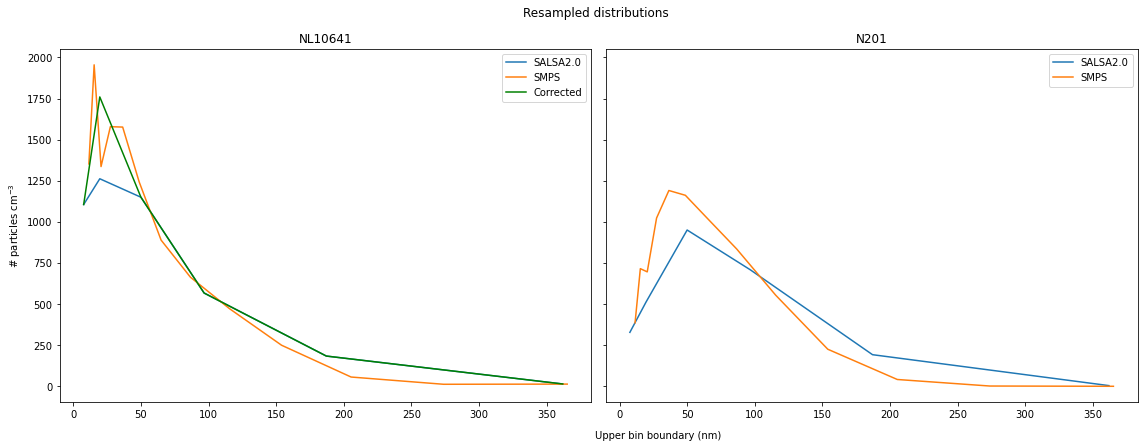
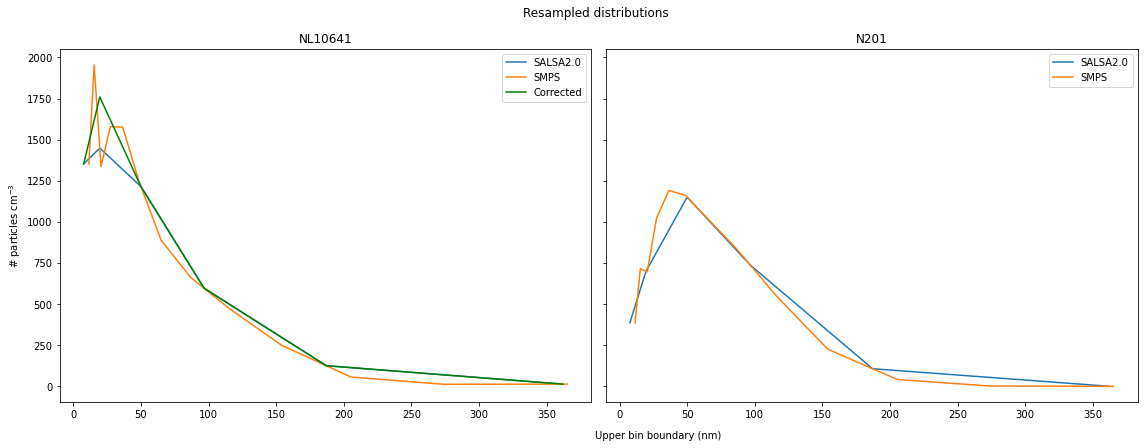
Better downsampling
Simply based on linear interpolation now, must cleaner.

diff --git a/src/measurement_data.py b/src/measurement_data.py
@@ -367,56 +367,7 @@ def show_bin_difference(smps_dataframe):
     plt.show()
     ###############################################
 
-def resample_to_salsa(series):
-    """
-    Resamples the SMPS dataseries (mean) into the bins of SALSA2.0.
-
-    Parameters
-    ----------
-    series : Pandas Series
-        Pandas Series of the mean NW-SW distribution.
-
-    Returns
-    -------
-    resampled : Pandas Series
-        Pandas Series of the resampled mean NW-SW distribution..
-
-    """
-    bin_boundaries = define_bin_boundaries()
-    bin_names = [f"{key}{i+1}" for key, array in bin_boundaries.items() for i, _ in enumerate(array[:-1])]
-    
-    salsa_boundaries = np.unique(np.concatenate(list(bin_boundaries.values()), 0)[:8]  * 1e9)
-    smps_boundaries = np.append(np.array([7.0]), series.index.astype(float).values)
-    new_data = {}
-
-    for salsa_lower, salsa_upper, salsa_bin_names in zip(salsa_boundaries[:-1], salsa_boundaries[1:], bin_names[:6]):
-        for smps_lower, smps_upper, smps_num in zip(smps_boundaries[:-1], smps_boundaries[1:], series[:-1]):
-
-            # salsa_width = salsa_upper - salsa_lower
-            # smps_width = smps_upper - smps_lower
-            # Fully contained within salsa bounds
-            if (smps_lower > salsa_lower) and (smps_upper < salsa_upper):
-                new_data[salsa_bin_names] = new_data.get(salsa_bin_names, 0) + smps_num
-
-            # Partially contained above
-            elif (smps_lower > salsa_lower) and (smps_upper > salsa_upper) and not (smps_lower > salsa_upper):
-                weight = (salsa_upper - smps_lower) / (smps_upper - smps_lower)
-                # weight /= (smps_width / salsa_width)
-                new_data[salsa_bin_names] = new_data.get(salsa_bin_names, 0) + smps_num*weight
-
-            # Partially contained below
-            elif (smps_lower < salsa_lower) and (smps_upper < salsa_upper) and not (smps_upper < salsa_lower):
-                weight = (smps_upper - salsa_lower) / (smps_upper - smps_lower)
-                # weight /= (smps_width / salsa_width)
-                new_data[salsa_bin_names] = new_data.get(salsa_bin_names, 0) + smps_num*weight
-
-            else:
-                new_data[salsa_bin_names] = new_data.get(salsa_bin_names, 0)
-                
-    resampled = pd.DataFrame.from_dict(new_data, orient = "index").transpose()
-    return resampled
-
-def translate_particles(original_bins, original_counts, new_bins):
+def translate_particles_orig(original_bins, original_counts, new_bins):
     # Calculate the area under the curve for the original counts
     new_bin_sizes = np.diff(new_bins)
     area_original = trapz(original_counts, x=original_bins[:-1])
@@ -440,9 +391,15 @@ def translate_particles(original_bins, original_counts, new_bins):
 
     # Scale the translated counts to match the total count
     translated_counts /= (area_original / area_translated)
-    test = pd.DataFrame(data = [translated_counts], columns = ["1a1", "1a2", "1a3", "2a1", "2a2", "2a3"])
+    output = pd.DataFrame(data = [translated_counts], columns = ["1a1", "1a2", "1a3", "2a1", "2a2", "2a3"])
 
-    return test
+    return output
+
+def translate_particles(original_bins, original_counts, new_bins):
+    translated_counts =  np.interp(new_bins, original_bins, original_counts)
+    output = pd.DataFrame(data = [translated_counts], columns = ["1a1", "1a2", "1a3", "2a1", "2a2", "2a3"])
+    
+    return output
 
 def filter_outliers(df):
     channels = df.filter(regex="^[.0-9]+$")
@@ -562,8 +519,8 @@ if __name__ == "__main__":
     highway_dist_641, _ = get_directional_dist(rivm_641, davis_641, min_angle = 202.5, max_angle = 337.5)
     background_dist_641, _ = get_directional_dist(rivm_641, davis_641, min_angle = 45, max_angle = 135)
     
-    highway_201_resampled = translate_particles(smps_bins_float, highway_dist_201, salsa_bins_float)
-    highway_641_resampled = translate_particles(smps_bins_float, highway_dist_641, salsa_bins_float)
+    highway_201_resampled = translate_particles(smps_bins_float[1:], highway_dist_201, salsa_bins_float[1:])
+    highway_641_resampled = translate_particles(smps_bins_float[1:], highway_dist_641, salsa_bins_float[1:])
     
 
     # Show the various mean distribution of particles
